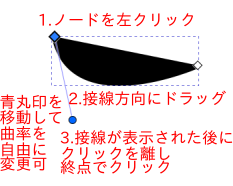
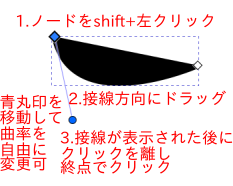
orgのexmaple環境修正。inkscape曲線記述修正

Changed region(s): [[0.1502, 0.0538, 0.8412, 0.1613], [0.0601, 0.0806, 0.1502, 0.1613], [0.8712, 0.0806, 0.9313, 0.1613]]

diff --git a/content/docs/inkscape_howto/index.md b/content/docs/inkscape_howto/index.md
@@ -8,7 +8,7 @@ featured: true # sidebarのおすすめの投稿, sets if post is a featured pos
 draft: false #true # Sets whether to render this page. Draft of true will not be rendered.
 toc: false # Controls if a table of contents should be generated for first-level links automatically.
 # menu: main # when uncomment, display on manu bar
-#usePageBundles: false # Set to true to group assets like images in the same folder as this post.
+#usePageBundles: false # Set to true to group assets like images in the same folder as thigs post.
 usePageBundles: true # Set to true to group assets like images in the same folder as this post.
 #featureImage: "/images/path/file.jpg" # Sets featured image on blog post.
 #featureImageAlt: 'Description of image' # Alternative text for featured image.
@@ -191,12 +191,14 @@ shiftキーを押しながら好きな色のパレットをクリックすると
 
 ![](./figs/curve/curve-1.png)
 
-2. ノードツールアイコンを押して、ノード(制御点)を表示します。
+
+2.ノードツールアイコンを押して、ノード(制御点)を表示します。
 
 
 ![](./figs/curve/curve-2-r.png)
 
-3. ノードを左クリックしたままマウスを動かすと、任意のカーブが現れます。
+
+3.SHIFTキー押したままノードを左クリックし、マウスを動かすと、任意のカーブになります。
 
 マウスを動かした方向に現れる青い線が、接線方向を示します。
 
@@ -206,8 +208,7 @@ shiftキーを押しながら好きな色のパレットをクリックすると
 
 ![](./figs/curve/curve-fin.png)
 
-1.の段階で、フィルなし、ストロークだけにしておくと作業しやすいかもしれ
-ません。
+1.の段階で、フィルなし、ストロークだけにしておくと作業しやすいかもしれません。
 
 5. 最初から曲線を描く方法として、
 
